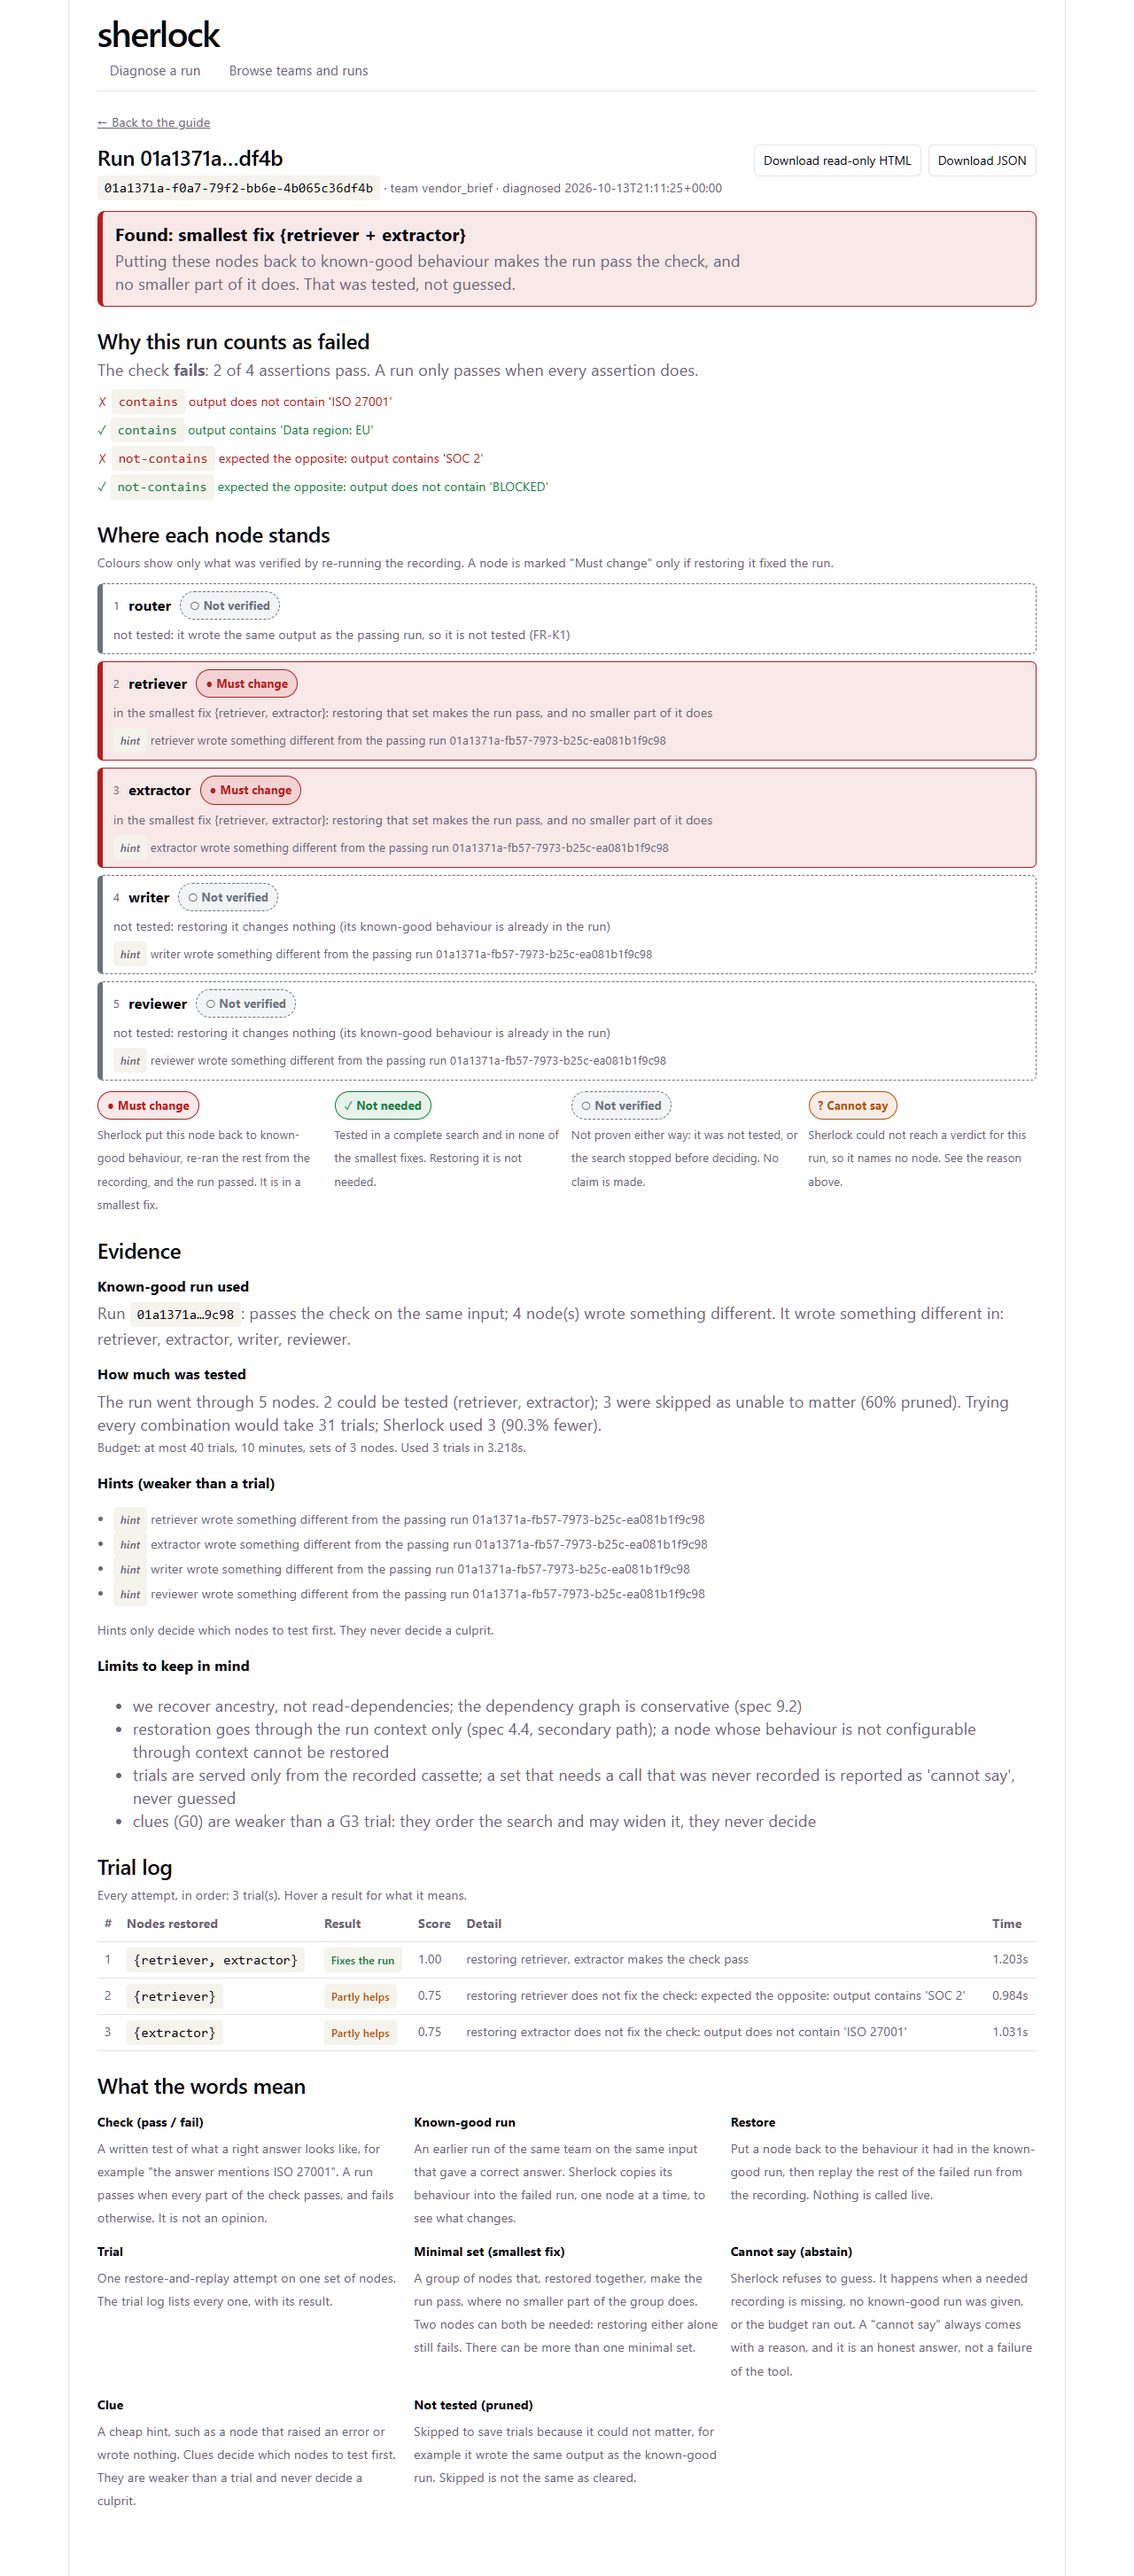
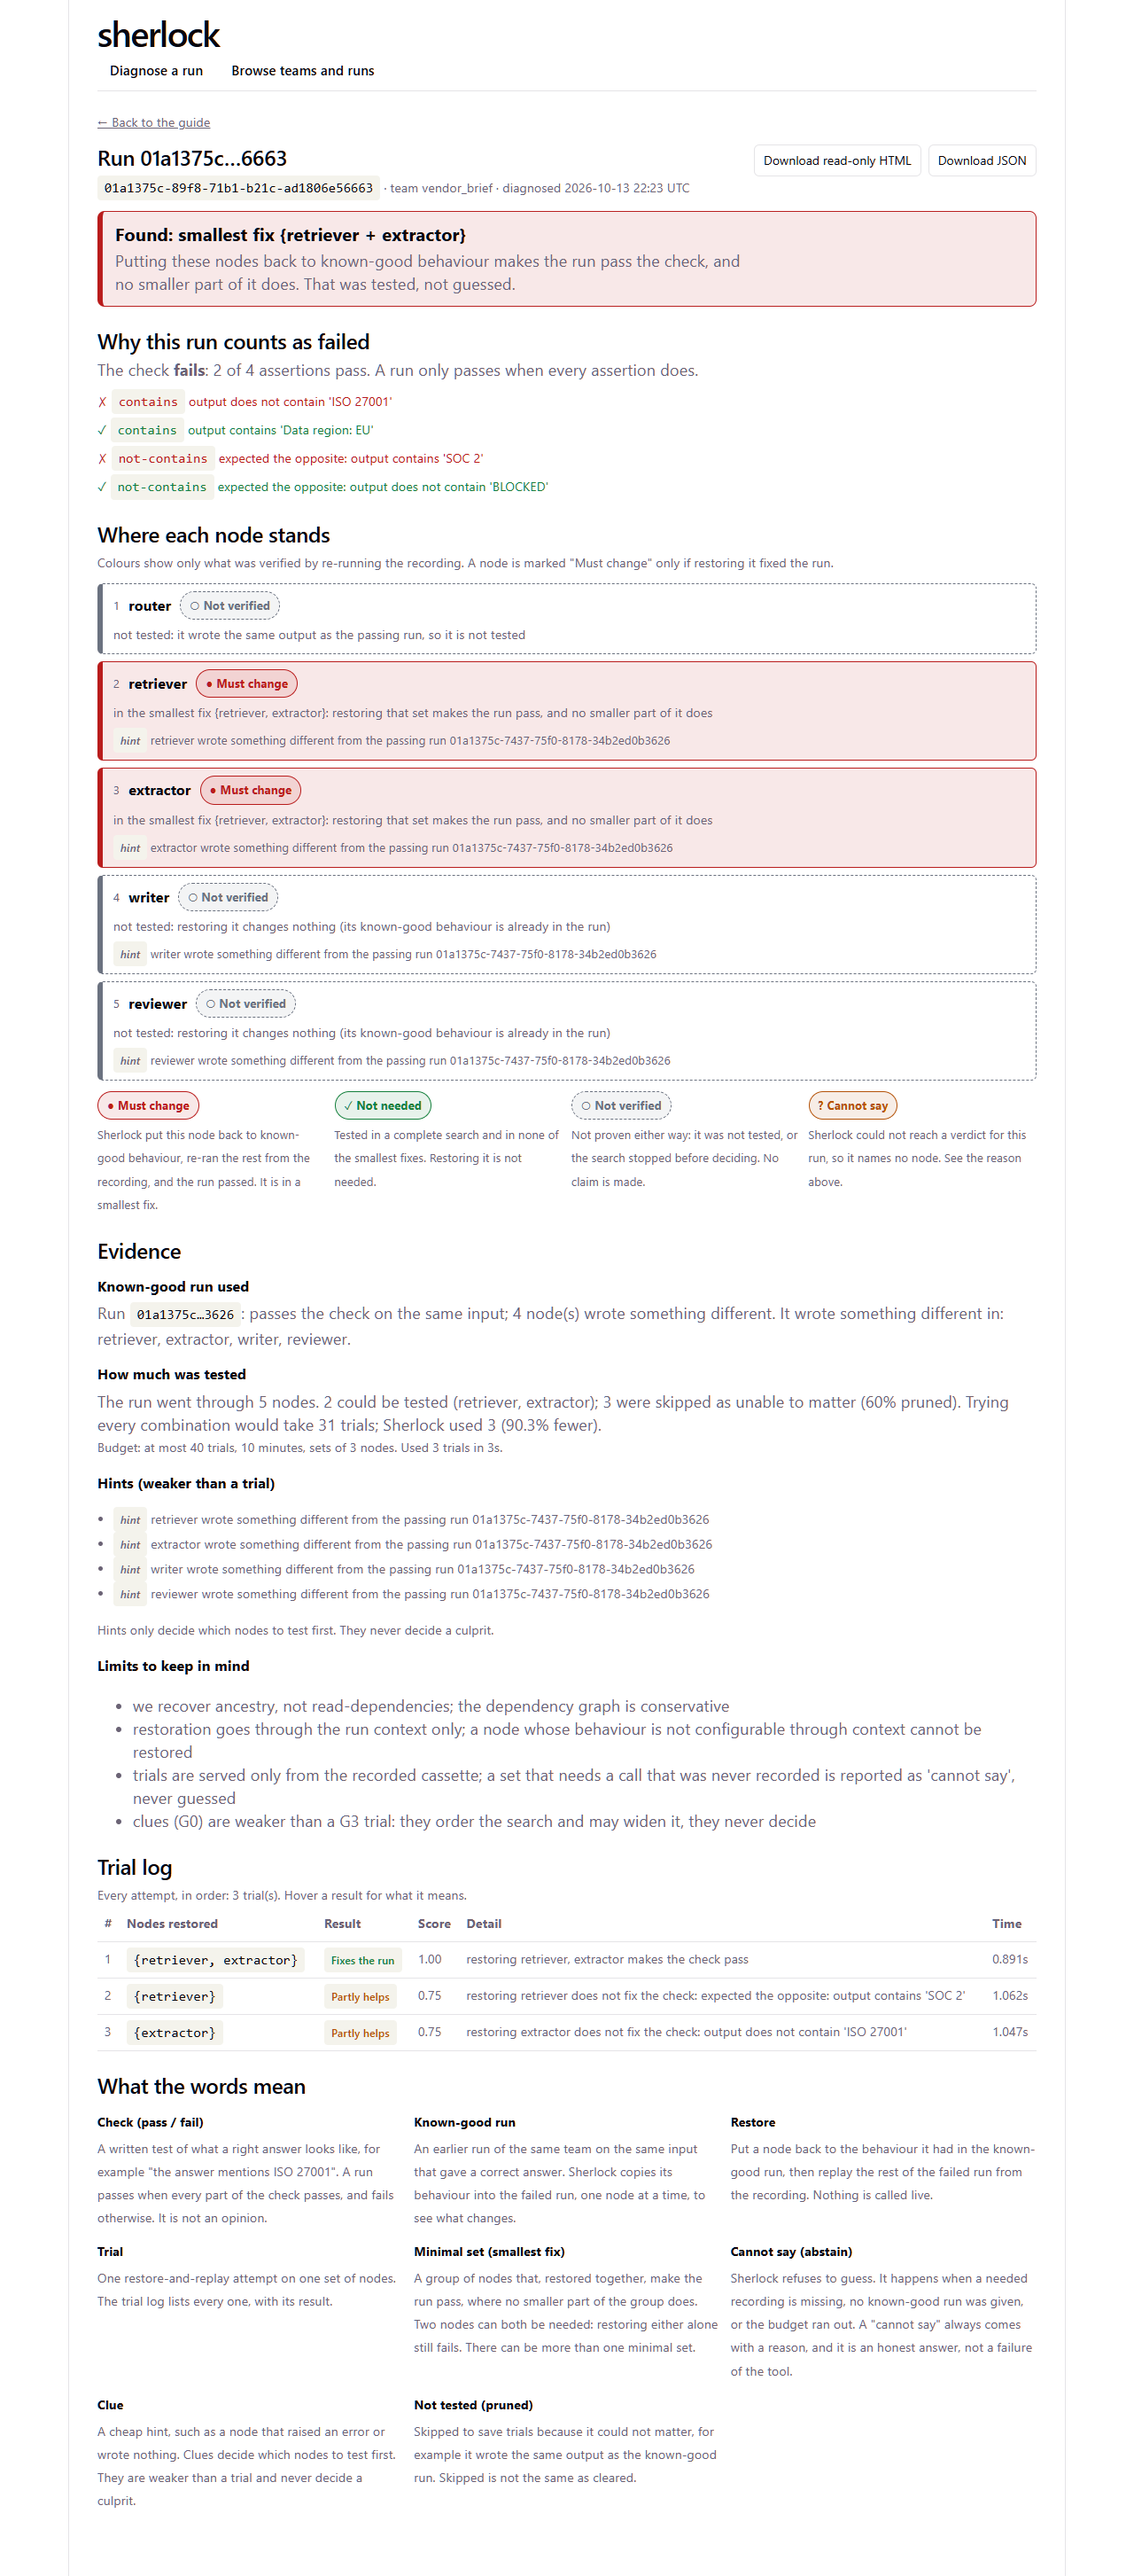
docs: add end-to-end verification report and refresh screenshots
Records honestly what was checked through the web app, what was fixed and what is still rough.

- docs/verification.md: what ran, screenshot index, issues fixed, remaining gaps
- new and replaced screenshots (guide, empty and server-down states, found, abstain, empty run, explore)
- STATUS: verified fact, session log, stale gap notes updated

Changed region(s): [[0.4375, 0.5884, 0.625, 0.6194], [0.625, 0.6504, 0.7188, 0.6813], [0.2188, 0.0619, 0.25, 0.0929]]

diff --git a/docs/STATUS.md b/docs/STATUS.md
@@ -232,6 +232,7 @@ Dated; they have a shelf life. Re-check before relying on them in a report.
   - A cassette shared by several LLM-team cases turned the never-recorded combination (spec 9.1) into a hit: the first run of the eval showed no abstain at all. Giving each LLM-team case its own lab and cassette fixed it. A real engineer's cassette holds whatever was recorded, so on a busy cassette Sherlock may resolve more than the single-case run does; that is honest (the call was recorded) but changes the abstain rate.
   - Whole table regenerated in 3 separate process runs (new ports, thread ids, temp dirs): byte-identical `results.json`. One eval takes about 5 minutes.
   - Building an httpx client costs about 0.75 s on this Windows machine (SSL context), which dominates LLM-team runs.
+- **2026-10-14 — end-to-end web check ([`verification.md`](verification.md)):** `eval/live_demo.py` ran the real pipeline on four teams (five diagnoses: two-cause, single, redundant fix, LLM-team abstain `unrecorded_call`), `sherlock serve` pointed at the live replay server, and headless Chromium walked guide, run pages, HTML/JSON downloads, `/explore`, server-down and empty states. Fixed: Sherlock's own trial threads listed as runs, seeded diagnoses missing from the guide's run list (the known gap), failed runs offered as known-good, abstain page repeating the raw reason on every node, spec codes in user text, green "idle" in `/explore`. One browser, one viewport, synthetic data.
 
 ## Decision log
 
@@ -288,7 +289,7 @@ Dated; they have a shelf life. Re-check before relying on them in a report.
   - **Artifact only, no live join.** The run page renders from the artifact alone (it works with LangGraph down and the export is self-contained). Node inputs and outputs from `/api/logs` are not shown (FR-U5 later).
   - **Routing:** real paths (`/`, `/explore`, `/runs/:id`) with `history.pushState`; the existing SPA fallback serves them. No router dependency.
   - **Share:** the export is the rendered report's HTML plus the page CSS, with every `data-noshare` element removed and no script. JSON is the raw artifact.
-  - **Demo seed:** checked in as `harness/fixtures/sherlock-demo/` (a `--sherlock-dir`), generated by the real pipeline, not hand-written. Thread ids in it do not exist on a fresh server, so the guide's run lists will not mark them as diagnosed.
+  - **Demo seed:** checked in as `harness/fixtures/sherlock-demo/` (a `--sherlock-dir`), generated by the real pipeline, not hand-written. Its thread ids do not exist on a fresh server; since the 2026-10-14 verification pass the guide still lists them (tagged diagnosed) for the matching team.
   - **`short(id)`** now shows `first8…last4`: UUIDv7 ids share their first 8 characters.
 - **2026-10-14 — Phase 6 build (autonomous).**
   - **Node map instead of a smarter attribution.** `--node-map FILE` (`{context item or key: node}`) is the whole fix for the `cannot_attribute` gap. The alternatives (guess from which node's output differs, or split a global key) would claim causes the data does not support. The harness derives the map from each team's fault catalogue; it is used only to restore, never to build gold.
@@ -304,7 +305,7 @@ Dated; they have a shelf life. Re-check before relying on them in a report.
 Beyond spec §10:
 
 - **Phase 6 gaps:** the evaluation is synthetic (our teams, our planted faults, an echo stub for the LLM team) and small (31 cases), so 30 of 31 exact says the pipeline matches the in-process oracle, not that real failures are diagnosed. The hidden set is hidden from tuning only. Not built: FR-E9, plain-LLM-guess and plain-retry baselines. Gate time grew by about 5 minutes. See `docs/eval/README.md`.
-- **Phase 5 gaps:** no UI test tooling (verified by lint, build, headless screenshots and API/CLI tests); `guide.png` was taken before the `short(id)` change; the guide never marks the seeded demo ids as diagnosed; `_early` abstains carry no `graph_id`, so the list shows `-` for them.
+- **Phase 5 gaps:** no UI test tooling (verified by lint, build, headless screenshots and API/CLI tests); screenshots were refreshed 2026-10-14; `_early` abstains carry no `graph_id`, so the list shows `-` for them.
 - **Phase 4 gaps:** attribution by name prefix suits teams that name behaviour per node (team 1 does); teams with global prompts or a single `system_prompt` key abstain `cannot_attribute` unless the engineer supplies `--node-map` (Phase 6); there is no automatic way to split a shared key between nodes. Now live-tested on four teams. Multi-source diagnosis multiplies trials. A Rust `sherlock diagnose` wrapper does not exist.
 - **Phase 1 smoke test:** all Phase 1 tests use the local stub; no real-provider smoke test was run (no keys). Which provider and key? *(Proposal; the team should confirm.)* Real SDK streaming (openai/anthropic over httpx) is unverified.
 - **Phase 3 gaps:** known-good is still a hand-written context patch, so only context-configurable behaviour can be restored; `diagnose` was only exercised on team 1 and a small LLM graph. `complete` is conservative (any untestable node or cassette miss makes it false).
@@ -316,6 +317,8 @@ Beyond spec §10:
 - `ui/dist` must exist for the `api` crate to compile. Run `cd ui && npm run build`; an empty `ui/dist/` is enough for tests.
 
 ## Session log
+
+- **2026-10-14** — Final verification pass on `phase-6` (3 commits): drove the real product through the web app, fixed the newcomer-facing issues above, added `eval/live_demo.py`, refreshed `docs/screenshots/`, wrote `docs/verification.md`. Gate `./scripts/test.sh` green (48 harness, 228 recorder, evaluation reproducible, app-core 23, api 16, cli 21, clippy, fmt); gaps are listed in `verification.md`.
 
 - **2026-10-14** — Phase 6 complete on `phase-6` (5 code/doc commits): demo teams 2-4, `--node-map`, baselines and scoring, `eval/run_eval.py`, committed results table and README, gate stage. 31 cases: Sherlock 30 exact, 0 wrong, 1 honest abstain; best baseline 10 exact; reproducible across 3 runs. `./scripts/test.sh` green: 48 harness, 228 recorder (24 live), eval stage, app-core 23, api 16, cli 21 tests, clippy and fmt.
 

diff --git a/docs/verification.md b/docs/verification.md
@@ -1,0 +1,59 @@
+# End-to-end verification (2026-10-14)
+
+Product checked through the web app as a first-time user, on branch `phase-6`. Honest scope: one reviewer, one
+Windows machine, one headless Chromium (`playwright-cli`), synthetic demo teams. Not a usability study with real users.
+
+## What was run
+
+1. `cd ui && npm run build`; `cargo build -p cli`.
+2. `python/sherlock/eval/live_demo.py` (new): the real pipeline, no provider. It records a passing run per demo team and the failed
+   runs on `langgraph dev` under `sherlock-rec run`, restarts that server under `--replay` inside the socket trap, runs
+   `sherlock-rec diagnose` on five failed runs and leaves the replay server up so the thread ids exist.
+   Results: `vendor_brief` two-cause = {retriever + extractor}; `vendor_brief` single = {writer}; `order_desk` = {assemble + stock};
+   `invoice_pipeline` redundant repair = {extract} or {normalize}; `support_bot` (LLM node) = cannot say (`unrecorded_call`).
+   One more failed run (`order_desk`) was left undiagnosed on purpose.
+3. `sherlock serve --langgraph-url <replay server> --sherlock-dir <fresh dir>`; driven in headless Chromium:
+   guide, pick team and runs, copy command, verdict, run pages, HTML and JSON downloads, `/explore`, server-down and no-diagnoses states.
+
+## Screenshots (`docs/screenshots/`)
+
+| File | Shows |
+|---|---|
+| `guide.png` | Home with the four steps filled in (team, failed run, known-good run, exact command), the verdict card, all diagnoses, glossary |
+| `guide-empty.png` | First launch: no LangGraph server, no diagnoses; says what is missing and how to start it |
+| `guide-server-down.png` | Server down: plain error with the URL being read and the fix |
+| `run-found.png` | Two-cause verdict: failed-check strip, nodes coloured by verified status, evidence, limits, trial log |
+| `run-abstain.png` | `support_bot` cannot say: reason, plain-words explanation, no node coloured as a cause |
+| `run-empty.png` | A run with no diagnosis: the command to create one |
+| `explore.png` | Ingestion dashboard with Sherlock's own trial threads labelled |
+
+Both downloads work: the HTML is a single file with no `<script>`, containing the verdict and the "Must change" chips; the JSON is the artifact.
+
+## Issues found and fixed
+
+- **Sherlock's own trial threads were listed as runs** in the guide's pickers (a diagnosis of 3 trials added 3 fake "runs"). Now hidden in the pickers
+  and labelled "Sherlock trial" in `/explore`.
+- **The known gap:** diagnosed runs not on the server (seeded ids on a fresh server) were absent from step 1. Diagnoses of the selected team's graph are now
+  added to the failed-run list, so the seed is reachable and tagged "diagnosed ...".
+- **Known-good picker offered failed runs.** Diagnosed runs are now disabled there ("failed (already diagnosed)").
+- **Abstain page repeated the same long raw reason on every node** (3x) and used engine jargon. Nodes now say "no verdict for this run"; the verdict card adds
+  an "In plain words" line per reason code (13 codes, `terms.ts`). The first draft of the `unrecorded_call` text gave wrong advice (re-record); corrected.
+- **Spec references in user-facing text** ("(FR-K1)", "(spec 9.2)", "(spec 4.4, secondary path)") are stripped at display time (`plain()`), since old artifacts
+  on disk contain them and the engine strings feed the reproducible evaluation table.
+- **Misleading colour:** `/explore` showed "idle" in green, which reads as "correct". It is now neutral with a tooltip and a header sentence that it only means "did not crash".
+- ISO timestamps with microseconds shortened to `2026-10-13 22:23 UTC`.
+
+## Judgement as a newcomer
+
+Clear: the first screen (what it does, four numbered steps, glossary at the bottom), the plain verdict wording, the chip legend under the node list, the
+trial log, the cannot-say framing ("an honest answer, not a failure"). Colour does not overclaim: red only for a node in a verified smallest fix, hatched amber
+for no verdict, dashed grey for not verified.
+
+## Remaining gaps (not fixed)
+
+- The pickers cannot say which undiagnosed run failed and which passed (needs the check; the server only reports "idle"). A newcomer must know their runs.
+- Step 3 still needs a terminal and a replay server; the "Before you run it" list is correct but dense. No in-app doctor.
+- The "Found" card is red, which can read as an error although it is the success case.
+- The run page is long; no table of contents. FR-U5/U6/U7 remain unbuilt (see STATUS).
+- No automated UI tests; this pass is manual (screenshots, one browser, one viewport 1280 wide). Narrow/mobile widths and keyboard use were not checked.
+- All data is synthetic (echo stub for the LLM team); nothing here says real failures are diagnosed.
